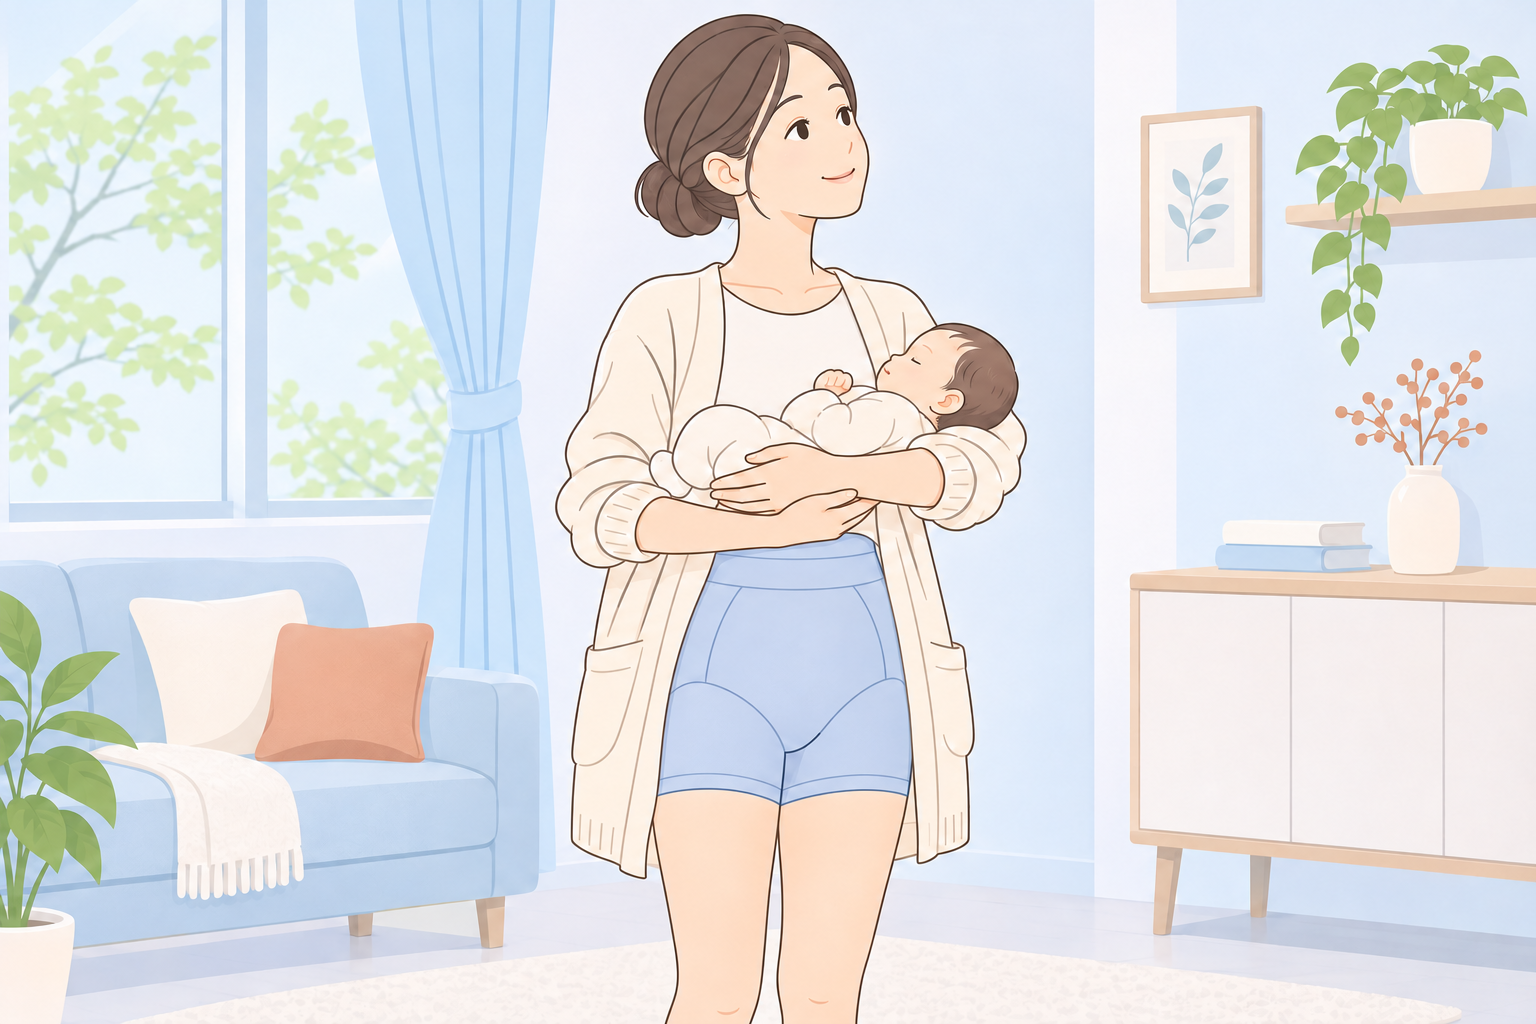
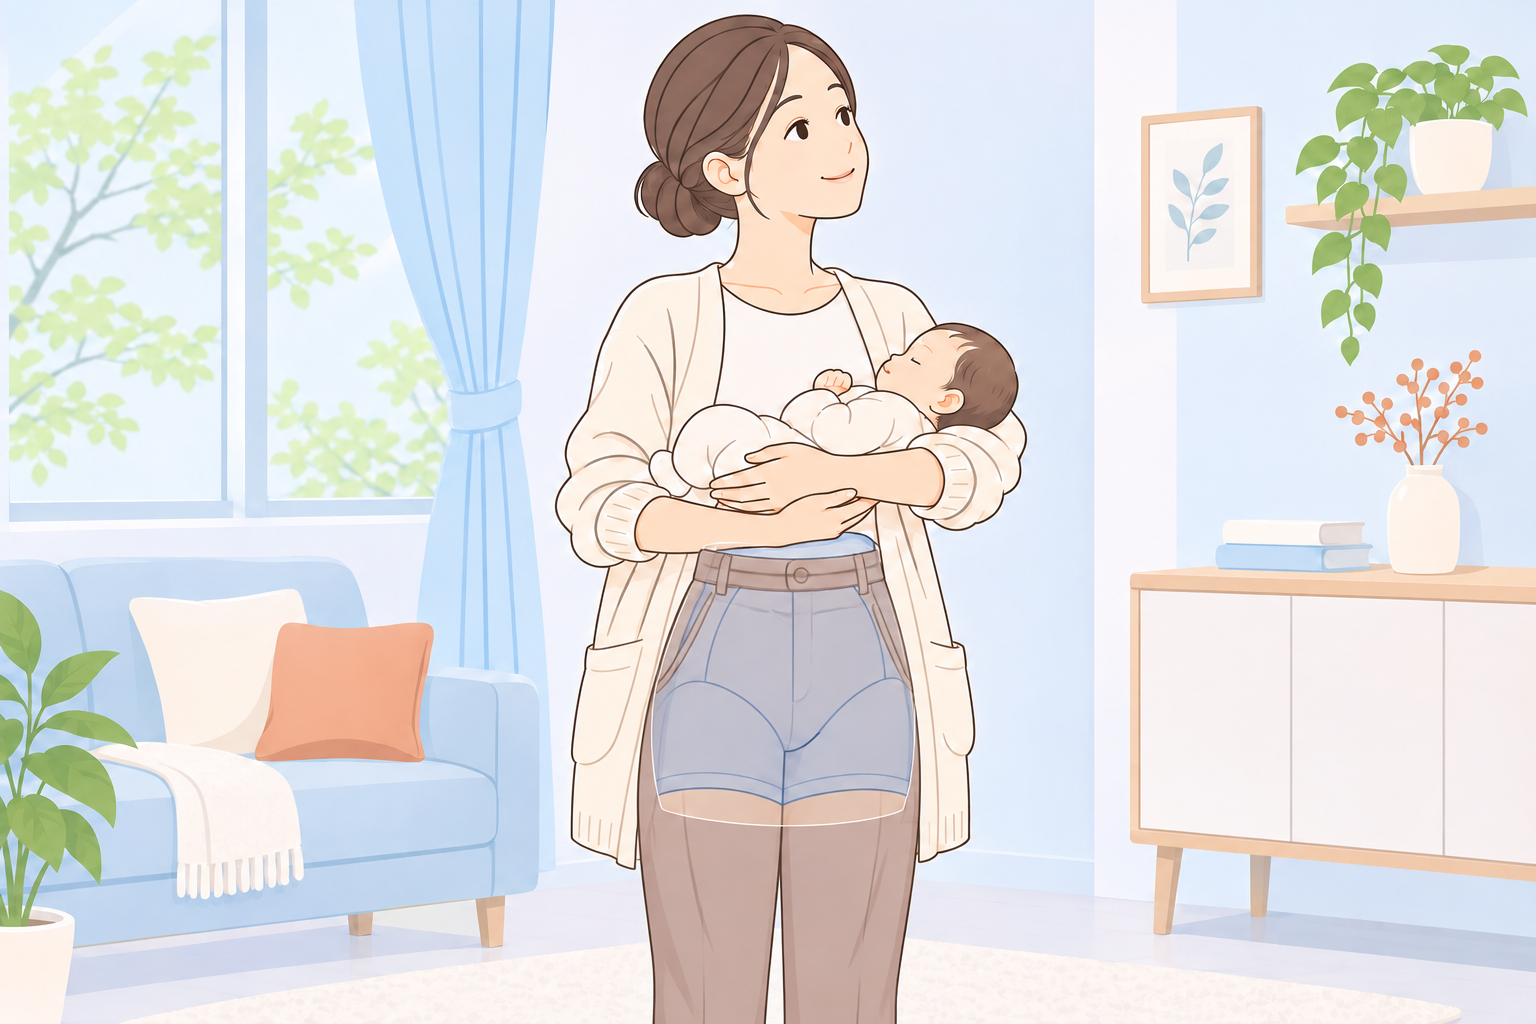
着用シーンを「ズボンの下に透けて見える」表現に統一（下着に見える問題の解消）
- サポーターをむき出しで描いた版は下着に見えるとのユーザー指摘により、
  普段着を着せてその下のサポーターを半透明で透かす版（ユーザー生成）に差し替え
- 変更6枚: surgery / pelvic / postpartum / senior / sports / care の wear
- facility-activity / senior-exercise / senior-walk は元からこの表現のため変更なし
- 本番反映・全9枚のバイト一致を確認済み

diff --git a/assets/images/image-brief_2026-11-03.md b/assets/images/image-brief_2026-11-03.md
@@ -121,6 +121,23 @@ WebP(1200px幅・q82)は `site/images/illust-*.webp`。
 ⚠ 「各LPの絵が最新になっていない」と言われたら、**画像ファイルだけでなく
 `grep -o 'src="/images/[^"]*"'` で全ページの参照先を洗う**こと。今回はこれで取りこぼしが見つかった。
 
+
+### 🚨 2026-11-03 最終版：着用シーンは「ズボンの下に透けて見える」表現に統一
+
+**サポーターをむき出しで描くと下着に見える**というユーザー指摘により、着用シーン6枚を
+**普段着（ズボン・ショートパンツ）を着せたうえで、その下のサポーターを半透明で透かす**版に差し替えた。
+`assets/images/gen20261103/illust-*-wear.png` と `site/images/illust-*.webp` は**この版が正**。
+
+対象9枚（surgery / pelvic / postpartum / senior / sports / care の wear と、
+facility-activity / senior-exercise / senior-walk）。前3つはもともとこの表現だったので実質6枚が変更。
+
+**次に着用シーンを作るときは、必ずこの指定を入れる**:
+> ズボン（または普段着）を着せたうえで、その下に着用しているサポーターを半透明で透かして見せる。
+> サポーターだけを素肌に着せた状態では描かない（下着に見えるため）。
+
+⚠ **ユーザーがChatGPTで作った画像は `~/Downloads` に日本語名で落ちている。**
+チャットに貼られた画像はディスクに残らないので、受け渡しはDownloads経由で確認するのが早い。
+
 ### 作業上の注意（次回のため）
 
 - ChatGPTの生成画像は **`navigator.clipboard.write` 経由だとOSのペーストボードが更新されず、
